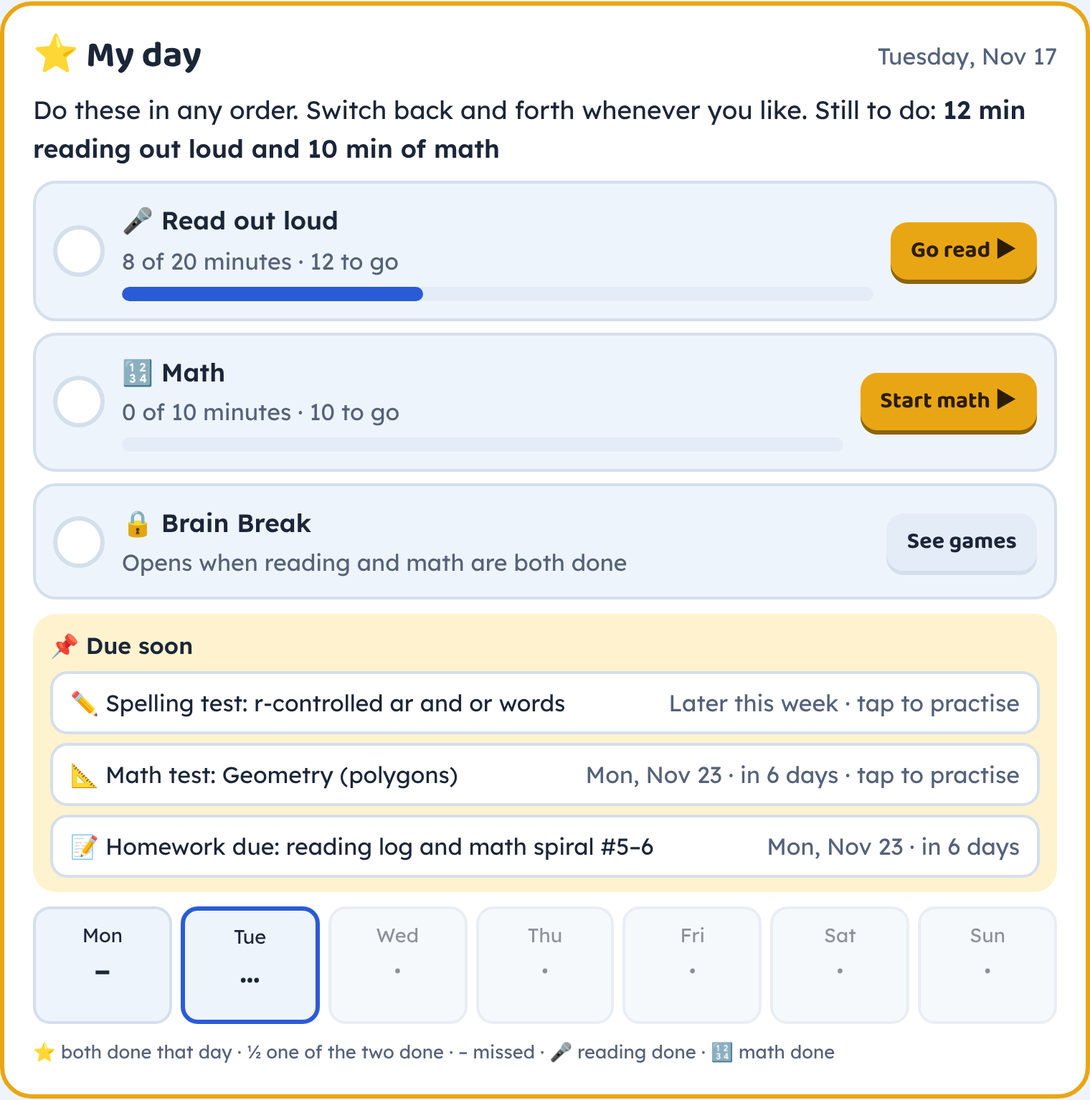
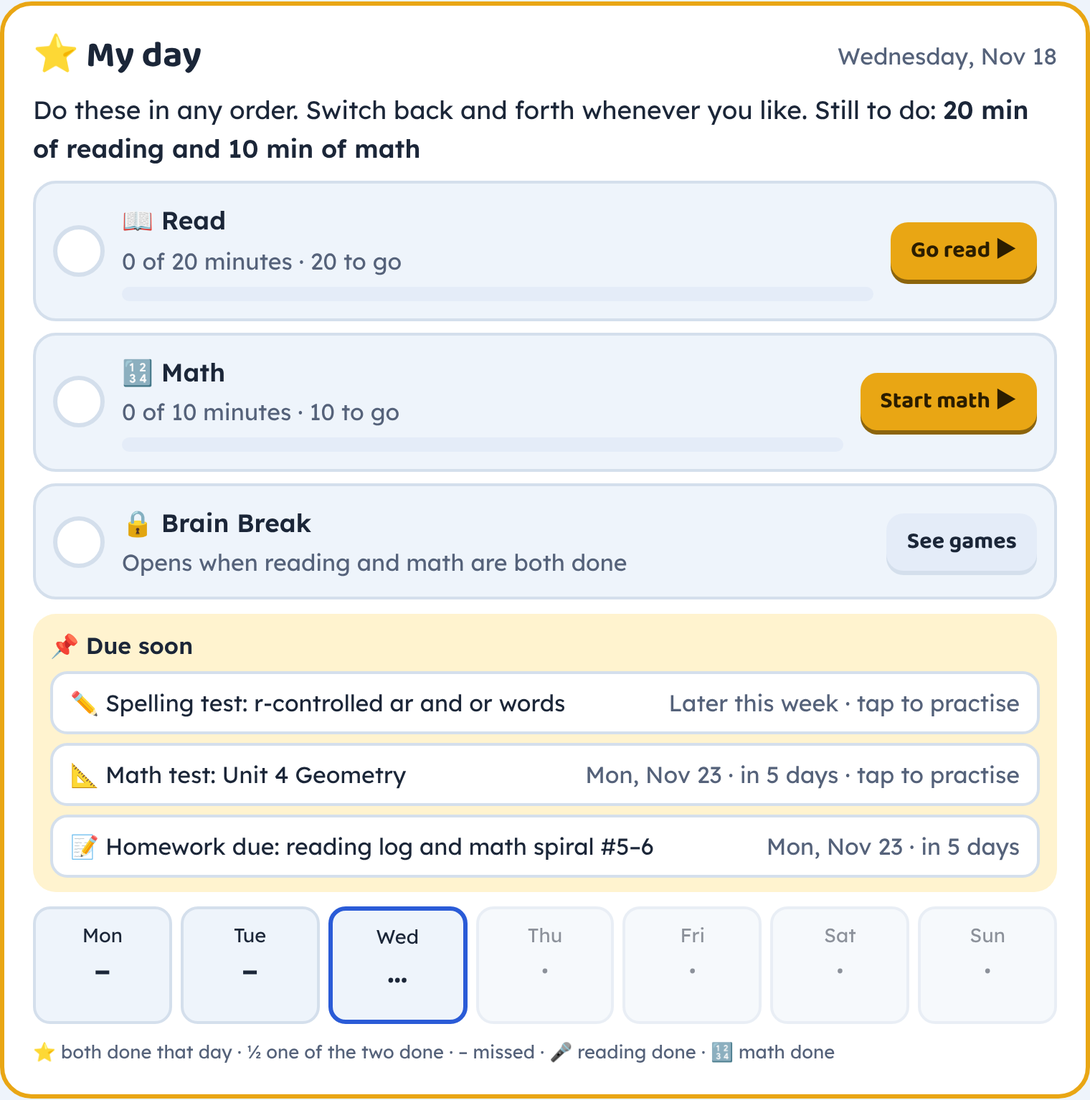
Reading time: every minute of reading work counts toward the daily 20 (pages, questions, sequencing, summary, Fluency Gym, Info Lab, spelling, word work, own book), with an on-screen minutes chip; fix the geometry test button opening Info Lab
Claude-Session: https://claude.ai/code/session_01XFu2tzZbArpVaJjUKnUaou

diff --git a/index.html b/index.html
@@ -1087,6 +1087,7 @@ function topbar(back){
     <div class="grow"><b style="font-family:var(--display);font-size:1.3rem">${esc(p.name)}</b>
       <div class="mut" style="font-size:.9rem">Level ${L.lv+1} · ${L.title}${p.streak.n>1?` · 🔥 ${p.streak.n} days`:''}</div>
       <div class="xp"><i style="width:${Math.round(L.xp/L.need*100)}%"></i></div></div>
+    ${READ_VIEWS.has(view.name) ? `<span class="chip" id="rcMins" style="font-size:1rem" title="Reading minutes today">${rcLabel()}</span>` : ''}
     <span class="chip" style="font-size:1rem" title="Game tickets">🎟 ${tix(p)}</span><span class="coins"><span class="coin"></span>${p.coins}</span></div>`;
 }
 
@@ -1206,7 +1207,7 @@ function vHub(){
   ${isParent(p) ? parentCard() : myDayCard(p, 'read')}
   <div class="card quest">
     <div class="row spread"><div style="min-width:0"><h2>🏅 Bonus quest</h2><p class="mut">${qdone === qi.length ? '🎉 All done today! Bonus ticket and 20 coins earned.' : `Extra, not required: finish all ${qi.length} for a bonus ticket and 20 coins. ${qdone} of ${qi.length} done.`}</p></div></div>
-    ${isParent(p) ? `<div class="aloudline ${breakOpen(p) ? 'open' : ''}"><span>🎤 Out loud with the microphone: <b>${Math.floor(aloudToday(p))} of ${BREAK_ALOUD} min</b></span>${breakOpen(p) ? '<span>🎉 Brain Break open!</span>' : `<span class="mut">${!MATH_ON || mathToday(p) >= MATH_GOAL ? 'opens Brain Break' : 'plus ' + MATH_GOAL + ' min of math opens Brain Break'}</span>`}<div class="abar"><i style="width:${Math.min(100, aloudToday(p)/BREAK_ALOUD*100)}%"></i></div></div>` : ''}
+    ${isParent(p) ? `<div class="aloudline ${breakOpen(p) ? 'open' : ''}"><span>📖 Reading today: <b>${Math.floor(readToday(p))} of ${BREAK_ALOUD} min</b></span>${breakOpen(p) ? '<span>🎉 Brain Break open!</span>' : `<span class="mut">${!MATH_ON || mathToday(p) >= MATH_GOAL ? 'opens Brain Break' : 'plus ' + MATH_GOAL + ' min of math opens Brain Break'}</span>`}<div class="abar"><i style="width:${Math.min(100, readToday(p)/BREAK_ALOUD*100)}%"></i></div></div>` : ''}
     <div class="qlist">${qi.map(i => `<button class="qitem ${i.done?'done':''}" ${i.done?'disabled':''} data-a="${A(i.run)}"><span class="qcheck">${i.done?'✓':''}</span><span>${i.icon} ${esc(i.label)}</span></button>`).join('')}</div>
   </div>
   ${schoolCard(p)}
@@ -1238,10 +1239,10 @@ function readNow(p){ const ch = nextChapter(p); p.subject = 'read'; save(); if (
 function mathGo(p){ const items = mathQuest(p), it = items.find(i => !i.done) || items[0]; if (it) it.run(); }
 function mathNow(p){ p.subject = 'math'; save(); go({name:'hub'}); }
 function weekDays(){ const t = new Date(today() + 'T12:00'), mon = new Date(t); mon.setDate(t.getDate() - ((t.getDay() + 6) % 7)); return [...Array(7)].map((_, i) => { const d = new Date(mon); d.setDate(mon.getDate() + i); return d.toISOString().slice(0, 10); }); }
-function dayDone(p, d){ const r = (((p.aloud || {})[d]) || 0) >= BREAK_ALOUD, m = !MATH_ON || mathToday(p, d) >= MATH_GOAL; return {r, m, all: r && m}; }
+function dayDone(p, d){ const r = readToday(p, d) >= BREAK_ALOUD, m = !MATH_ON || mathToday(p, d) >= MATH_GOAL; return {r, m, all: r && m}; }
 function myDayCard(p, here){
   if (isParent(p)) return '';
-  const ra = Math.floor(aloudToday(p)), mm = Math.floor(mathToday(p)), rDone = ra >= BREAK_ALOUD, mDone = !MATH_ON || mm >= MATH_GOAL, open = breakOpen(p);
+  const ra = Math.floor(readToday(p)), mm = Math.floor(mathToday(p)), rDone = ra >= BREAK_ALOUD, mDone = !MATH_ON || mm >= MATH_GOAL, open = breakOpen(p);
   const bar = (v, g) => `<span class="mdbar"><i style="width:${Math.min(100, v / g * 100)}%"></i></span>`;
   const step = (n, done, icon, title, sub, v, g, btn) => `<div class="mdstep ${done ? 'done' : ''}"><span class="mdnum">${done ? '✓' : ''}</span><span class="mdtx"><b>${icon} ${title}</b><span class="mut">${sub}</span>${g ? bar(v, g) : ''}</span>${btn}</div>`;
   const btn = (txt, fn, hot) => `<button class="btn small ${hot ? 'sun' : 'ghost'}" data-a="${A(fn)}">${txt}</button>`;
@@ -1250,16 +1251,16 @@ function myDayCard(p, here){
   // reading and math can be done in any order, a bit of each, back and forth: both buttons stay bright until done
   return `<div class="card myday">
     <div class="row spread"><h2>⭐ My day</h2><span class="mut">${new Date(t + 'T12:00').toLocaleDateString(undefined, {weekday:'long', month:'short', day:'numeric'})}</span></div>
-    <p class="mdlead">${open ? '🎉 You did everything due today! Brain Break is open.' : `Do these in any order. Switch back and forth whenever you like. Still to do: <b>${[rDone ? '' : `${BREAK_ALOUD - ra} min reading out loud`, mDone ? '' : `${MATH_GOAL - mm} min of math`].filter(Boolean).join(' and ')}</b>`}</p>
+    <p class="mdlead">${open ? '🎉 You did everything due today! Brain Break is open.' : `Do these in any order. Switch back and forth whenever you like. Still to do: <b>${[rDone ? '' : `${BREAK_ALOUD - ra} min of reading`, mDone ? '' : `${MATH_GOAL - mm} min of math`].filter(Boolean).join(' and ')}</b>`}</p>
     <div class="mdsteps">
-      ${step(1, rDone, '🎤', 'Read out loud', rDone ? `Done! ${ra} of ${BREAK_ALOUD} minutes` : `${ra} of ${BREAK_ALOUD} minutes · ${BREAK_ALOUD - ra} to go`, ra, BREAK_ALOUD, here === 'read' && !rDone ? btn('Read in the app ▶', () => readNow(p), true) + btn('📖 My own book', () => go({name:'book'}), true) : here !== 'read' ? btn(rDone ? 'Reading' : 'Go read ▶', () => { p.subject = 'read'; save(); go({name:'hub'}); }, !rDone) : '')}
+      ${step(1, rDone, '📖', 'Read', rDone ? `Done! ${ra} of ${BREAK_ALOUD} minutes` : `${ra} of ${BREAK_ALOUD} minutes · ${BREAK_ALOUD - ra} to go`, ra, BREAK_ALOUD, here === 'read' && !rDone ? btn('Read in the app ▶', () => readNow(p), true) + btn('📖 My own book', () => go({name:'book'}), true) : here !== 'read' ? btn(rDone ? 'Reading' : 'Go read ▶', () => { p.subject = 'read'; save(); go({name:'hub'}); }, !rDone) : '')}
       ${MATH_ON ? step(2, mDone, '🔢', 'Math', mDone ? `Done! ${mm} of ${MATH_GOAL} minutes` : `${mm} of ${MATH_GOAL} minutes · ${MATH_GOAL - mm} to go`, mm, MATH_GOAL, here !== 'math' ? btn(mDone ? 'Math' : 'Go do math ▶', () => mathNow(p), !mDone) : btn(mDone ? 'More math' : 'Start math ▶', () => mathGo(p), !mDone)) : ''}
       ${step(MATH_ON ? 3 : 2, open, open ? '🎉' : '🔒', 'Brain Break', open ? 'Open! Play any game you like.' : 'Opens when reading and math are both done', 0, 0, btn(open ? 'Play ▶' : 'See games', () => go({name:'break'}), open))}
     </div>
     ${due.length ? `<div class="mddue"><b>📌 Due soon</b>${due.slice(0, 3).map(e => `<button class="mdduei" ${e.prep ? `data-a="${A(() => schoolPrep(p, e))}"` : 'disabled'}><span>${e.ic} ${esc(e.t)}</span><span class="mut">${whenTxt(e.d, e)}${e.prep ? ' · tap to practise' : ''}</span></button>`).join('')}</div>` : ''}
     <div class="mdweek" aria-label="This week">${days.map(d => { const x = dayDone(p, d), fut = d > t, isT = d === t;
-      return `<div class="mdday ${isT ? 'today' : ''} ${fut ? 'fut' : x.all ? 'ok' : ''}"><span>${new Date(d + 'T12:00').toLocaleDateString(undefined, {weekday:'short'})}</span><b>${fut ? '·' : x.all ? '⭐' : isT ? '…' : (x.r || x.m) ? '½' : '–'}</b><small>${fut ? '' : `${x.r ? '🎤' : ''}${x.m && MATH_ON ? '🔢' : ''}`}</small></div>`; }).join('')}</div>
-    <p class="mut mdkey">⭐ both done that day · ½ one of the two done · – missed · 🎤 reading done · 🔢 math done</p>
+      return `<div class="mdday ${isT ? 'today' : ''} ${fut ? 'fut' : x.all ? 'ok' : ''}"><span>${new Date(d + 'T12:00').toLocaleDateString(undefined, {weekday:'short'})}</span><b>${fut ? '·' : x.all ? '⭐' : isT ? '…' : (x.r || x.m) ? '½' : '–'}</b><small>${fut ? '' : `${x.r ? '📖' : ''}${x.m && MATH_ON ? '🔢' : ''}`}</small></div>`; }).join('')}</div>
+    <p class="mut mdkey">⭐ both done that day · ½ one of the two done · – missed · 📖 reading done · 🔢 math done</p>
   </div>`;
 }
 function mapSvg(p){
@@ -1414,7 +1415,7 @@ function modePicker(p){
   if (!p.mode) p.mode = SR ? 'mic' : 'pace';
   return `<div class="modes">${Object.entries(MODES).filter(([k]) => k !== 'mic' || SR).map(([k,m]) =>
     `<button class="${p.mode===k?'on':''}" data-a="${A(()=>{p.mode=k; save(); render();})}" title="${m.sub}">${m.label}</button>`).join('')}</div>
-    <p class="mut" style="font-size:.9rem">${p.mode === 'mic' ? '🎤 Counts toward Brain Break. ' : (SR && !micBlocked ? 'Only 🎤 Read out loud counts toward Brain Break. ' : '')}${MODES[p.mode].sub}${micBlocked && p.mode==='mic' ? ' (the microphone is not available on this page, so the highlighter will be used)' : ''}</p>`;
+    <p class="mut" style="font-size:.9rem">📖 Reading the story and answering its questions all count toward your ${BREAK_ALOUD} minutes. ${MODES[p.mode].sub}${micBlocked && p.mode==='mic' ? ' (the microphone is not available on this page, so the highlighter will be used)' : ''}</p>`;
 }
 
 // ---------- Reading ----------
@@ -1563,7 +1564,42 @@ const SR = window.SpeechRecognition || window.webkitSpeechRecognition || null;
 let micBlocked = false;
 const mic = {on:false, rec:null, ptr:0, seg:0, t0:0, done:false};
 const pace = {timer:null, i:0, run:false};
-function stopAll(){ if (typeof bookStop === 'function') bookStop(true); if (typeof closeScratch === 'function') closeScratch(); scanStop(); stopMic(); stopPace(); closePop(); gameStop(); stopRetell(); gymStopTimer(); breakStop(); }
+
+// ---------- The reading clock ----------
+// Every reading activity counts toward the daily reading minutes for the whole time the kid is working on it: reading the
+// page, answering its questions, putting events in order, the summary, the Fluency Gym, Info Lab articles and their questions,
+// focus words, spelling, Word Detective and the check-ins. Before, only the reading part of a story counted, so 20 minutes of
+// reading took 40-50 minutes in the app. The clock pauses when the app is hidden or nobody has touched the screen for a while
+// (6 minutes on a page of text, which can take a while to read with no tap; 2 minutes everywhere else).
+// "Read my own book" keeps its own microphone clock and is not counted here. Arcade games and math never count.
+const READ_VIEWS = new Set(['intro', 'read', 'seq', 'finish', 'sum', 'series', 'focus', 'gym', 'info', 'infolab', 'checkin', 'checkpoint', 'spell', 'wordgame', 'g_parts']);
+const RC = {last: Date.now(), pend: 0, title: ''};
+['pointerdown', 'keydown', 'touchstart', 'scroll', 'input', 'wheel'].forEach(e => addEventListener(e, () => { RC.last = Date.now(); }, {passive:true, capture:true}));
+function rcTitle(){
+  const n = view && view.name;
+  if (n === 'gym') return 'Fluency Gym: ' + (view.psg && view.psg.title || 'practice passage');
+  if (n === 'info'){ const a = typeof infoSet === 'function' && me() ? infoSet(me()).find(x => x.id === view.id) : null; return a ? a.title : 'Info Lab'; }
+  if (n === 'infolab') return 'Info Lab';
+  if (n === 'checkin' || n === 'checkpoint') return 'Monthly checkpoint';
+  if (n === 'spell') return 'Spelling practice';
+  if (n === 'wordgame') return 'Word Detective';
+  if (n === 'focus' || n === 'g_parts') return 'Word practice';
+  return (typeof R !== 'undefined' && R && R.s && R.s.title) || 'Reading practice';
+}
+function rcReading(){ return (view.name === 'read' && !['q', 'look'].includes(view.phase)) || (view.name === 'info' && view.phase === 'read') || view.name === 'gym'; }
+function rcFlush(){ if (!RC.pend) return; const s2 = RC.pend; RC.pend = 0; addMinutes(s2 / 60, RC.title); }
+setInterval(() => {
+  if (typeof view === 'undefined' || !view || !READ_VIEWS.has(view.name) || document.hidden || !me()) { rcFlush(); return; }
+  if (Date.now() - RC.last > (rcReading() ? 6 : 2) * 60000) { rcFlush(); return; }
+  const t = rcTitle(); if (RC.pend && t !== RC.title) rcFlush();
+  RC.title = t; RC.pend += 1;
+  if (RC.pend >= 20) rcFlush();
+  const el = document.getElementById('rcMins'); if (el) el.textContent = rcLabel();
+}, 1000);
+document.addEventListener('visibilitychange', () => { if (document.hidden) rcFlush(); });
+addEventListener('pagehide', rcFlush);
+function rcLabel(){ const p = me(); if (!p) return ''; const m = Math.floor(readToday(p)), g = BREAK_ALOUD; return m >= g ? `📖 ${m} min today ✓` : `📖 ${m} of ${g} min`; }
+function stopAll(){ rcFlush(); if (typeof bookStop === 'function') bookStop(true); if (typeof closeScratch === 'function') closeScratch(); scanStop(); stopMic(); stopPace(); closePop(); gameStop(); stopRetell(); gymStopTimer(); breakStop(); }
 function setupMode(){
   const p = me();
   let mode = p.mode || 'pace'; if (mode === 'mic' && (!SR || micBlocked)) mode = 'pace';
@@ -1594,7 +1630,7 @@ function readDone(){
   stopAll();
   if (mode === 'solo' && secs > 8){ logWpm(view.words.length, secs, 'solo'); }
   if (mode !== 'solo' && !view.readPaid){ view.readPaid = true; R.coins += 3; addCoins(3, 'read aloud'); }
-  addMinutes(secs/60, R && R.s ? R.s.title : ''); if (R) R.mins = (R.mins||0) + Math.min(secs/60, 15);
+  if (R) R.mins = (R.mins||0) + Math.min(secs/60, 15); // today's minutes come from the reading clock
   view.phase = 'q'; view.q = null; render();
 }
 function logWpm(n, secs, how){
@@ -1980,7 +2016,7 @@ function vGrown(){
         <div class="pick words" style="margin-top:8px">${FOCUS.map(([k,l]) => `<button class="${f[k]?'on':''}" aria-pressed="${!!f[k]}" data-a="${A(()=>{ p.focus = Object.assign({}, p.focus, {[k]: !f[k]}); save(); render(); })}">${f[k]?'✓ ':''}${l}</button>`).join('')}</div></div>
 
       <div><h3>Brain Break today</h3>
-        <p class="mut" style="font-size:.9rem">${esc(p.name)} has read <b>${Math.floor(aloudToday(p))} of ${BREAK_ALOUD} minutes</b> out loud${MATH_ON ? ` and done <b>${Math.floor(mathToday(p))} of ${MATH_GOAL} minutes</b> of math` : ''} today. ${breakOpen(p) ? (p.breakDay === today() && aloudToday(p) < BREAK_ALOUD ? 'You opened Brain Break for today.' : 'Brain Break is open.') : 'Brain Break is locked.'}</p>
+        <p class="mut" style="font-size:.9rem">${esc(p.name)} has read <b>${Math.floor(readToday(p))} of ${BREAK_ALOUD} minutes</b>${MATH_ON ? ` and done <b>${Math.floor(mathToday(p))} of ${MATH_GOAL} minutes</b> of math` : ''} today. ${breakOpen(p) ? (p.breakDay === today() && readToday(p) < BREAK_ALOUD ? 'You opened Brain Break for today.' : 'Brain Break is open.') : 'Brain Break is locked.'}</p>
         <div style="margin-top:8px">${p.breakDay === today()
           ? `<button class="btn ghost small" data-a="${A(()=>{ p.breakDay = ''; save(); render(); })}">Undo: lock it again</button>`
           : !breakOpen(p) ? `<button class="btn small sun" data-a="${A(()=>{ p.breakDay = today(); save(); render(); })}">🎉 Open Brain Break for today</button>` : ''}</div></div>
@@ -4166,7 +4202,7 @@ const BOOKS5 = [
 ];
 SERIES.push(...BOOKS1, ...BOOKS2, ...BOOKS3, ...BOOKS4, ...BOOKS5);
 
-// ---------- Out-loud minutes: only time the microphone heard the reader (opens Brain Break) ----------
+// ---------- Out-loud minutes: only time the microphone heard the reader (a stat; Brain Break counts all reading time, readToday) ----------
 // Counted from the first word the microphone heard to the last one, so pauses at the start and walking away do not count.
 const BREAK_ALOUD = 20;
 function countAloud(){
@@ -4179,17 +4215,19 @@ function addAloud(secs){
   const p = me(); if (!p || !(secs > 0)) return;
   p.aloud = p.aloud || {}; const t = today();
   for (const d of Object.keys(p.aloud)) if (d < addDays(-60)) delete p.aloud[d];
-  const was = aloudToday(p);
   p.aloud[t] = (p.aloud[t]||0) + Math.min(secs, 900)/60; save();
-  if (was < BREAK_ALOUD && aloudToday(p) >= BREAK_ALOUD) cheer('soccer', `GOAL, ${fname(p)}!`, breakOpen(p) ? '20 minutes of reading out loud. Brain Break is open!' : '20 minutes of reading out loud done!', 100);
 }
 function aloudToday(p){ return ((p.aloud||{})[today()]) || 0; }
+// The daily 20 minutes (My day, Brain Break, the week strip): every minute of reading work the reading clock counted, plus
+// "Read my own book". Until Nov 2026 only the seconds the microphone heard words counted, so 20 minutes took 40-50.
+function readToday(p, d){ return (((p.daily||{})[d || today()]) || 0) + (!d && typeof RC !== 'undefined' && p === me() ? RC.pend / 60 : 0); }
 
 // ---------- Daily reading minutes (matches the class reading logs) ----------
 function goalOf(p){ return p.goal || (p.grade >= 5 ? 20 : 15); }
 function minsToday(p){ return Math.floor(((p.daily||{})[today()]||0)); }
 function addMinutes(m, title){
   const p = me(); if (!p || !(m > 0)) return;
+  const wasR = ((p.daily||{})[today()]) || 0;
   m = Math.min(m, 15); // one sitting never counts more than 15 minutes (a page left open is not reading)
   p.minutes = (p.minutes||0) + m; p.daily = p.daily || {};
   const t = today(); p.daily[t] = (p.daily[t]||0) + m;
@@ -4197,7 +4235,8 @@ function addMinutes(m, title){
   p.readT = p.readT || {}; const day = p.readT[t] || (p.readT[t] = {}), k = title || 'Reading practice'; day[k] = (day[k] || 0) + m;
   Object.keys(p.readT).forEach(d => { if (d < addDays(-60)) delete p.readT[d]; });
   save();
-  if (p.goalPaid !== t && minsToday(p) >= goalOf(p)){ p.goalPaid = t; save(); giveTickets(1); addCoins(10, 'daily goal!'); cheer('soccer', `GOAL, ${fname(p)}!`, `You read ${goalOf(p)} minutes today. Daily goal done!`, 50); }
+  if (wasR < BREAK_ALOUD && p.daily[t] >= BREAK_ALOUD) cheer('soccer', `GOAL, ${fname(p)}!`, breakOpen(p) ? `${BREAK_ALOUD} minutes of reading today. Brain Break is open!` : `${BREAK_ALOUD} minutes of reading done!`, 100);
+  if (p.goalPaid !== t && minsToday(p) >= goalOf(p)){ p.goalPaid = t; save(); giveTickets(1); addCoins(10, 'daily goal!'); if (goalOf(p) !== BREAK_ALOUD) cheer('soccer', `GOAL, ${fname(p)}!`, `You read ${goalOf(p)} minutes today. Daily goal done!`, 50); }
 }
 function ringSvg(p){
   const done = Math.min(1, minsToday(p)/goalOf(p)), r = 26, c = 2*Math.PI*r;
@@ -4357,7 +4396,7 @@ function gymDone(secsIn){
   }
   v.note = '';
   v.errs.forEach(i => bankAdd(v.words[i].raw));
-  v.reads.push(w); addMinutes(secs/60, 'Fluency Gym: ' + (v.psg && v.psg.title || 'practice passage'));
+  v.reads.push(w);
   addCoins(5, 'read ' + v.reads.length);
   if (v.reads.length === 3){
     p.gym = p.gym || []; p.gym.push({d:today(), w:v.reads.slice(), m:v.mode, s:v.psg.s}); if (p.gym.length > 60) p.gym.shift();
@@ -4845,7 +4884,7 @@ window.BreakGames = window.BreakGames || {};
 let breakCleanup = null;
 function breakStop(){ if (breakCleanup){ try{ breakCleanup(); }catch(e){} breakCleanup = null; } }
 const BREAK_OPEN_DAYS = ['2026-11-14', '2026-11-15']; // days a grown-up opened the Brain Break for every child, on every iPad
-function breakOpen(p){ return isParent(p) || (aloudToday(p) >= BREAK_ALOUD && (!MATH_ON || mathToday(p) >= MATH_GOAL)) || p.breakDay === today() || BREAK_OPEN_DAYS.includes(today()); } // breakDay: a grown-up opened it for today
+function breakOpen(p){ return isParent(p) || (readToday(p) >= BREAK_ALOUD && (!MATH_ON || mathToday(p) >= MATH_GOAL)) || p.breakDay === today() || BREAK_OPEN_DAYS.includes(today()); } // breakDay: a grown-up opened it for today
 function breakApi(p, g){
   p.breakScores = p.breakScores || {}; p.breakStore = p.breakStore || {};
   const css = getComputedStyle(document.documentElement), c = n => css.getPropertyValue(n).trim();
@@ -4881,7 +4920,7 @@ function breakRing(v, goal, col, lab){ const pct = Math.min(100, v / goal * 100)
     <circle cx="60" cy="60" r="50" fill="none" stroke="${col}" stroke-width="12" stroke-linecap="round" stroke-dasharray="${(pct/100*314).toFixed(1)} 314" transform="rotate(-90 60 60)"/>
     <text x="60" y="58" text-anchor="middle" font-size="30" font-weight="800" fill="#fff" font-family="Baloo 2, system-ui">${Math.floor(v)}</text><text x="60" y="80" text-anchor="middle" font-size="13" fill="#e0e7ff">${lab}</text></svg>`; }
 function vBreak(){
-  const p = me(), open = breakOpen(p), mins = Math.floor(aloudToday(p)), need = Math.max(1, Math.ceil(BREAK_ALOUD - aloudToday(p))), pct = Math.min(100, aloudToday(p)/BREAK_ALOUD*100);
+  const p = me(), open = breakOpen(p), mins = Math.floor(readToday(p)), need = Math.max(1, Math.ceil(BREAK_ALOUD - readToday(p))), pct = Math.min(100, readToday(p)/BREAK_ALOUD*100);
   const ring = `<svg viewBox="0 0 120 120" class="bbring"><circle cx="60" cy="60" r="50" fill="none" stroke="rgba(255,255,255,.18)" stroke-width="12"/>
     <circle cx="60" cy="60" r="50" fill="none" stroke="#fde047" stroke-width="12" stroke-linecap="round" stroke-dasharray="${(pct/100*314).toFixed(1)} 314" transform="rotate(-90 60 60)"/>
     <text x="60" y="58" text-anchor="middle" font-size="30" font-weight="800" fill="#fff" font-family="Baloo 2, system-ui">${mins}</text><text x="60" y="80" text-anchor="middle" font-size="13" fill="#e0e7ff">reading</text></svg>`;
@@ -4889,11 +4928,11 @@ function vBreak(){
   <div class="bbhero ${open ? 'open' : ''}">
     <div class="bbsparks" aria-hidden="true">${'✦✧✦✧✦✧'.split('').map((c,i) => `<i style="left:${8+i*16}%;animation-delay:${i*.7}s">${c}</i>`).join('')}</div>
     <div class="bbtext"><h1>🧠 Brain Break</h1>
-      <p>${open ? `${isParent(p) ? 'Grown-up account: <b>every game is always open</b> so you can try them out.' : `You read out loud for ${BREAK_ALOUD} minutes today. <b>Every game is open, play as much as you like!</b>`}` : `Unlock every game today with <b>${BREAK_ALOUD} minutes of reading out loud</b>${MATH_ON ? ` and <b>${MATH_GOAL} minutes of math</b>` : ''}. Still to go: <b>${breakNeed(p)}</b>.`}</p>
-      ${open ? '<span class="bbopen">🔓 Open all day today</span>' : `<div class="row">${aloudToday(p) < BREAK_ALOUD ? `<button class="btn sun" data-a="${A(()=>{ p.subject = 'read'; save(); go({name:'library', tab:'rec'}); })}">🎤 Read out loud</button>` : ''}${MATH_ON && mathToday(p) < MATH_GOAL ? `<button class="btn ${aloudToday(p) < BREAK_ALOUD ? 'ghost bbghost' : 'sun'}" data-a="${A(()=>{ p.subject = 'math'; save(); go({name:'hub'}); })}">🔢 Do math</button>` : ''}</div>`}</div>
+      <p>${open ? `${isParent(p) ? 'Grown-up account: <b>every game is always open</b> so you can try them out.' : `You read for ${BREAK_ALOUD} minutes today. <b>Every game is open, play as much as you like!</b>`}` : `Unlock every game today with <b>${BREAK_ALOUD} minutes of reading</b>${MATH_ON ? ` and <b>${MATH_GOAL} minutes of math</b>` : ''}. Still to go: <b>${breakNeed(p)}</b>.`}</p>
+      ${open ? '<span class="bbopen">🔓 Open all day today</span>' : `<div class="row">${readToday(p) < BREAK_ALOUD ? `<button class="btn sun" data-a="${A(()=>{ p.subject = 'read'; save(); go({name:'library', tab:'rec'}); })}">📖 Go read</button>` : ''}${MATH_ON && mathToday(p) < MATH_GOAL ? `<button class="btn ${readToday(p) < BREAK_ALOUD ? 'ghost bbghost' : 'sun'}" data-a="${A(()=>{ p.subject = 'math'; save(); go({name:'hub'}); })}">🔢 Do math</button>` : ''}</div>`}</div>
     ${open ? '<div class="bbbig" aria-hidden="true">🎮</div>' : `<div class="bbrings">${ring}${MATH_ON ? breakRing(mathToday(p), MATH_GOAL, '#67e8f9', 'math') : ''}</div>`}
   </div>
-  ${open ? '' : `<p class="mut" style="margin:-4px 4px 0">Reading counts when the microphone hears you read out loud (${Math.floor(aloudToday(p))} of ${BREAK_ALOUD} min). ${MATH_ON ? `Math counts while you are solving problems (${Math.floor(mathToday(p))} of ${MATH_GOAL} min).` : ''}</p>`}
+  ${open ? '' : `<p class="mut" style="margin:-4px 4px 0">Reading counts the whole time you work on a story, article or your own book: reading the pages and answering the questions (${Math.floor(readToday(p))} of ${BREAK_ALOUD} min). ${MATH_ON ? `Math counts while you are solving problems (${Math.floor(mathToday(p))} of ${MATH_GOAL} min).` : ''}</p>`}
   <div class="bbgrid ${open ? '' : 'locked'}">${BREAK_LIST.map(g => { const best = (p.breakScores||{})[g.id], c = BREAK_LOOK[g.id] || ['#334155','#64748b'];
     return `<button class="bbtile" style="--c1:${c[0]};--c2:${c[1]}" ${open ? '' : 'disabled'} data-a="${A(()=>go({name:'breakgame', id:g.id}))}">
       <span class="bbart" aria-hidden="true"><span>${g.icon}</span></span>
@@ -7410,7 +7449,7 @@ function vInfo(){
     app.innerHTML = `${topbar(()=>go({name:'infolab'}))}
     <div class="card"><p class="mut">Words to know</p>${words}</div>
     <div class="card iart">${art}</div>
-    <div class="row"><button class="btn sun" data-a="${A(()=>{ v.phase = 'q'; v.mins = Math.min(20, (Date.now() - v.t0) / 60000); addMinutes(v.mins, a.title); render(); window.scrollTo({top:0}); })}">I'm done reading → Questions</button></div>`;
+    <div class="row"><button class="btn sun" data-a="${A(()=>{ v.phase = 'q'; v.mins = Math.min(20, (Date.now() - v.t0) / 60000); render(); window.scrollTo({top:0}); })}">I'm done reading → Questions</button></div>`;
     return;
   }
   if (v.phase === 'q'){
@@ -7470,7 +7509,6 @@ function cpFinish(f){
   const p = me(), v = view, dom = {};
   f.items.forEach((it, i) => { const d = dom[it.dom] || (dom[it.dom] = [0, 0]); d[1]++; if (v.st[i].ok) d[0]++; });
   p.cps = p.cps || []; p.cps.push({d:today(), id:f.id, dom, mins: Math.round((Date.now() - (v.t0 || Date.now())) / 60000)});
-  addMinutes(Math.min(30, (Date.now() - (v.t0 || Date.now())) / 60000), 'Monthly checkpoint');
   logEvent('checkin', 'Monthly checkpoint', {w:0}); addCoins(30, 'checkpoint'); cheer('trophy', `Checkpoint champion, ${fname(p)}!`, 'Monthly checkpoint finished. Great focus!', 50); questMark('check'); save();
 }
 function cpTableHtml(cps){
@@ -7516,7 +7554,7 @@ function mathPack(p){
   return {u: mathUnitNow(p).name, s, f: Object.keys(m.facts).filter(k => m.facts[k].n > (m.facts[k].ok || 0)).slice(0, 16)};
 }
 function mathTopics(list){ const T = {}; (list || []).forEach(e => { const x = T[e.title] || (T[e.title] = [0, 0, 0]); x[0] += e.mins || 0; x[1] += e.right || 0; x[2] += e.total || 0; }); return Object.entries(T).map(([t, x]) => [t, Math.round(x[0]), x[1], x[2]]); }
-// Brain Break needs 20 minutes of out-loud reading AND 10 minutes of math, each counted only while actually working.
+// Brain Break needs 20 minutes of reading (readToday) AND 10 minutes of math, each counted only while actually working.
 // Problems come from generators in math/g3.js and math/g5.js (window.MathSkills), loaded when a child opens Math.
 const MATH_GOAL = 10;
 const MATH_ON = true;
@@ -7570,8 +7608,8 @@ function mathTick(){ const p = me(); if (!p) return; const now = Date.now(), m =
   if (was < MATH_GOAL && mathToday(p) >= MATH_GOAL) cheer(Math.random() < .5 ? 'slide' : 'team', `What a finish, ${fname(p)}!`, breakOpen(p) ? '10 minutes of math done. Brain Break is open!' : '10 minutes of math done!', 60);
 }
 function breakNeed(p){
-  const r = Math.max(0, Math.ceil(BREAK_ALOUD - aloudToday(p))), m = MATH_ON ? Math.max(0, Math.ceil(MATH_GOAL - mathToday(p))) : 0, out = [];
-  if (r) out.push(`${r} min reading out loud`); if (m) out.push(`${m} min of math`); return out.join(' and ');
+  const r = Math.max(0, Math.ceil(BREAK_ALOUD - readToday(p))), m = MATH_ON ? Math.max(0, Math.ceil(MATH_GOAL - mathToday(p))) : 0, out = [];
+  if (r) out.push(`${r} min of reading`); if (m) out.push(`${m} min of math`); return out.join(' and ');
 }
 
 // ---- pictures for problems ----
@@ -7723,7 +7761,7 @@ const SCHOOL = {
       learn:[['🔢', 'Math', 'Unit 4 Geometry: polygons with 3 to 8 sides, combining and cutting shapes'], ['📚', 'Reading', 'Unit 3: Government for the People (helping others, voting rights)'],
              ['✏', 'Spelling', 'r-controlled vowels: ar (garden) and or (forest)'], ['💧', 'Science', 'The water cycle and keeping water clean']],
       events:[{d:'2026-11-19', ic:'📸', t:'Picture make-up day'},
-              {d:'2026-11-23', ic:'📐', t:'Math test: Unit 4 Geometry', info:'Study guide: polygons vs. nonpolygons, naming shapes by their sides (quadrilateral, pentagon, hexagon, octagon), lines, rays and line segments, congruent shapes, cutting and combining shapes.', math:['g3.polygons', 'g3.quads', 'g3.composepoly', 'g3.geovocab', 'g3.polyfacts', 'g3.geovocab'], prep:'Practise for the geometry test'},
+              {d:'2026-11-23', ic:'📐', t:'Math test: Unit 4 Geometry', about:'Study guide: polygons vs. nonpolygons, naming shapes by their sides (quadrilateral, pentagon, hexagon, octagon), lines, rays and line segments, congruent shapes, cutting and combining shapes.', math:['g3.polygons', 'g3.quads', 'g3.composepoly', 'g3.geovocab', 'g3.polyfacts', 'g3.geovocab'], prep:'Practise for the geometry test'},
               {d:'2026-11-20', when:'Later this week', ic:'✏', t:'Spelling test: r-controlled ar and or words', spell:true, prep:'Practise the spelling words'},
               {d:'2026-11-23', ic:'📝', t:'Homework due: reading log and math spiral #5–6'},
               {d:'2026-11-24', ic:'🧱', t:'Field trip: LEGO Discovery Center'},
@@ -7772,7 +7810,7 @@ function schoolCard(p, mathOnly){
   const tch = S2.teachers ? (S2.teachers[teacherOf(p)] ? `<span class="mut" style="font-size:.85rem">${esc(S2.teachers[p.teacher].name)}'s class · <button class="linkbtn" data-a="${A(() => { delete p.teacher; save(); render(); })}">change</button></span>`
     : `<div class="row" style="gap:6px;margin-top:6px"><span class="mut">Whose class are you in?</span>${Object.keys(S2.teachers).map(k => `<button class="btn small ghost" data-a="${A(() => { p.teacher = k; save(); render(); })}">${esc(S2.teachers[k].name)}</button>`).join('')}</div>`) : `<span class="mut" style="font-size:.85rem">${esc(S2.from)}</span>`;
   return `<div class="card schoolcard"><div class="row spread"><h2>📅 Coming up at school</h2>${tch}</div>
-    ${ev.length ? `<ul class="schev">${ev.map(e => `<li class="${daysTo(e.d) <= 2 ? 'soon' : ''}"><span class="ic">${e.ic}</span><span class="sct"><b>${esc(e.t)}</b><span class="mut">${whenTxt(e.d, e)}</span></span>${e.prep ? `<button class="btn small ${daysTo(e.d) <= 7 ? 'sun' : 'ghost'}" data-a="${A(() => schoolPrep(p, e))}">${esc(e.prep)}</button>` : ''}</li>`).join('')}</ul>` : '<p class="mut">Nothing on the calendar in the next three weeks.</p>'}
+    ${ev.length ? `<ul class="schev">${ev.map(e => `<li class="${daysTo(e.d) <= 2 ? 'soon' : ''}"><span class="ic">${e.ic}</span><span class="sct"><b>${esc(e.t)}</b><span class="mut">${whenTxt(e.d, e)}</span>${e.about ? `<span class="mut" style="font-size:.85rem">${esc(e.about)}</span>` : ''}</span>${e.prep ? `<button class="btn small ${daysTo(e.d) <= 7 ? 'sun' : 'ghost'}" data-a="${A(() => schoolPrep(p, e))}">${esc(e.prep)}</button>` : ''}</li>`).join('')}</ul>` : '<p class="mut">Nothing on the calendar in the next three weeks.</p>'}
     ${mathOnly ? '' : `<details class="schlearn"><summary>What we are learning in class</summary><ul>${S2.learn.map(l => `<li><span>${l[0]}</span> <b>${esc(l[1])}:</b> ${esc(l[2])}</li>`).join('')}</ul></details>`}
   </div>`;
 }
@@ -7854,7 +7892,7 @@ function bookStart(title){
 const mmss = s2 => Math.floor(s2 / 60) + ':' + String(Math.floor(s2 % 60)).padStart(2, '0');
 function bookPaint(){ if (!BK || view.name !== 'book') return; const p = me(), $ = id => document.getElementById(id); if (!$('bkTime')) { if (BK.err) render(); return; }
   if (BK.err){ render(); return; }
-  const today20 = aloudToday(p) + BK.pend / 60, wpm = BK.active >= 60 && BK.words >= 20 ? Math.round(BK.words / (BK.active / 60)) : null;
+  const today20 = readToday(p) + BK.pend / 60, wpm = BK.active >= 60 && BK.words >= 20 ? Math.round(BK.words / (BK.active / 60)) : null;
   $('bkTime').textContent = mmss(BK.active); $('bkWords').textContent = BK.words + (BK.interim ? BK.interim.split(/\s+/).length : 0);
   $('bkWpm').textContent = wpm == null ? '…' : wpm; $('bkGoal').textContent = `${Math.min(BREAK_ALOUD, Math.floor(today20))} of ${BREAK_ALOUD} min today`;
   $('bkBar').style.width = Math.min(100, today20 / BREAK_ALOUD * 100) + '%';
@@ -7881,7 +7919,7 @@ function vBook(){
       <span class="big-emoji">📖</span><h1>Great reading!</h1><p><b>${esc(BK.title)}</b></p>
       <div class="bkstats"><div><span class="mut">Read out loud</span><b>${mins}:${String(secs).padStart(2, '0')}</b></div><div><span class="mut">Words heard</span><b>${BK.words}</b></div><div><span class="mut">Words a minute</span><b>${w == null ? '–' : w}</b></div></div>
       ${w == null ? '<p class="mut">Read at least 2 minutes out loud to get your words a minute.</p>' : `<p>${w >= tgt ? '🚀 That is at or above your goal of ' + tgt + '!' : 'Your goal is ' + tgt + ' words a minute. Keep practising!'}</p>`}
-      <p>Today: <b>${Math.floor(aloudToday(p))} of ${BREAK_ALOUD} min</b> read out loud${aloudToday(p) >= BREAK_ALOUD ? ' ✓' : ''}</p>
+      <p>Today: <b>${Math.floor(readToday(p))} of ${BREAK_ALOUD} min</b> of reading${readToday(p) >= BREAK_ALOUD ? ' ✓' : ''}</p>
       <div class="row"><button class="btn sun" data-a="${A(()=>{ const t = BK.title; go({name:'book', phase:'reading'}); bookStart(t); })}">Keep reading</button><button class="btn ghost" data-a="${A(()=>go({name:'hub'}))}">Done</button></div></div>`;
     return;
   }
@@ -7941,9 +7979,9 @@ function subjectSwitch(p){
 function vSubject(){
   const p = me();
   app.innerHTML = `${topbar(null)}<h1 style="text-align:center">What do you want to work on, ${esc(p.name)}?</h1>
-  <div class="subjpick"><button class="subjtile read" data-a="${A(()=>{ p.subject = 'read'; save(); go({name:'hub'}); })}"><span>📚</span><b>Reading</b><span class="mut">🎤 ${Math.floor(aloudToday(p))} of ${BREAK_ALOUD} min out loud today</span></button>
+  <div class="subjpick"><button class="subjtile read" data-a="${A(()=>{ p.subject = 'read'; save(); go({name:'hub'}); })}"><span>📚</span><b>Reading</b><span class="mut">📖 ${Math.floor(readToday(p))} of ${BREAK_ALOUD} min today</span></button>
     <button class="subjtile math" data-a="${A(()=>{ p.subject = 'math'; save(); go({name:'hub'}); })}"><span>🔢</span><b>Math</b><span class="mut">⏱ ${Math.floor(mathToday(p))} of ${MATH_GOAL} min today</span></button></div>
-  <p class="mut" style="text-align:center">${breakOpen(p) ? '🎉 Everything due today is done. Brain Break is open!' : `Still to do today: ${[aloudToday(p) >= BREAK_ALOUD ? '' : `${Math.ceil(BREAK_ALOUD - aloudToday(p))} min reading out loud`, mathToday(p) >= MATH_GOAL ? '' : `${Math.ceil(MATH_GOAL - mathToday(p))} min of math`].filter(Boolean).join(' and ')}, in any order. Then Brain Break opens.`}</p>`;
+  <p class="mut" style="text-align:center">${breakOpen(p) ? '🎉 Everything due today is done. Brain Break is open!' : `Still to do today: ${[readToday(p) >= BREAK_ALOUD ? '' : `${Math.ceil(BREAK_ALOUD - readToday(p))} min of reading`, mathToday(p) >= MATH_GOAL ? '' : `${Math.ceil(MATH_GOAL - mathToday(p))} min of math`].filter(Boolean).join(' and ')}, in any order. Then Brain Break opens.`}</p>`;
 }
 
 // ---- the problem player ----
@@ -8174,7 +8212,7 @@ function kidSummary(name, local){
   const td = rows.find(r => r.d === t), wk = rows.filter(r => r.d >= w0), pw = rows.filter(r => r.d >= p0 && r.d < w0);
   const sum = (a, k) => a.reduce((x, r) => x + (r[k] || 0), 0), g = kid.g || 3;
   const mright = a => a.reduce((x, r) => x + (r.mt || []).reduce((y, q) => y + (q[2] || 0), 0), 0), mtot = a => a.reduce((x, r) => x + (r.mt || []).reduce((y, q) => y + (q[3] || 0), 0), 0);
-  const sp = a => median(a.filter(r => r.s).map(r => r.s)), bb = r => (r.al || 0) >= BREAK_ALOUD && (r.mm || 0) >= MATH_GOAL;
+  const sp = a => median(a.filter(r => r.s).map(r => r.s)), bb = r => (r.m || 0) >= BREAK_ALOUD && (r.mm || 0) >= MATH_GOAL;
   const last = Math.max(0, ...rows.map(r => r.at || 0));
   return {name, g, a:kid.a, local: !!local, td, wk, last, days: wk.filter(r => (r.m || 0) > 0).length, read: sum(wk, 'm'), aloud: sum(wk, 'al'), math: sum(wk, 'mm'), met: wk.filter(r => (r.m || 0) >= (r.gl || 20)).length,
     bb: wk.filter(bb).length, titles: [...new Set(wk.flatMap(r => (r.rd || []).map(x => bookOf(x[0]).book)))], mR: mright(wk), mT: mtot(wk), sNow: sp(wk), sPrev: sp(pw), readPrev: sum(pw, 'm'), mathPrev: sum(pw, 'mm'), ms: kid.ms};
@@ -8208,11 +8246,11 @@ function vExecSum(){
     body = `<div class="card"><h2>📅 Today</h2><p class="mut">${niceDate(today(), true)}</p>
       <table class="daytab exgrid">${head}
         ${R('📖 Reading', k => `<b>${T(k).m || 0}</b>/${T(k).gl || (k.g >= 5 ? 20 : 15)}${ok(T(k).m || 0, T(k).gl || (k.g >= 5 ? 20 : 15))}`)}
-        ${R('🎤 Out loud', k => `<b>${T(k).al || 0}</b>/${BREAK_ALOUD}${ok(T(k).al || 0, BREAK_ALOUD)}`)}
+        ${R('📖 Reading', k => `<b>${T(k).m || 0}</b>/${BREAK_ALOUD}${ok(T(k).m || 0, BREAK_ALOUD)}`)}
         ${R('🔢 Math', k => `<b>${T(k).mm || 0}</b>/${MATH_GOAL}${ok(T(k).mm || 0, MATH_GOAL)}`)}
         ${R('✅ Math right', k => mt(T(k)) ? `${Math.round(mr(T(k)) / mt(T(k)) * 100)}%` : '–')}
         ${R('⚡ Speed', k => T(k).s ? `${bandOf(k.g, T(k).s).ic} ${T(k).s}` : '–')}
-        ${R('🧠 Brain Break', k => (T(k).al || 0) >= BREAK_ALOUD && (T(k).mm || 0) >= MATH_GOAL ? '✅' : '🔒')}
+        ${R('🧠 Brain Break', k => (T(k).m || 0) >= BREAK_ALOUD && (T(k).mm || 0) >= MATH_GOAL ? '✅' : '🔒')}
         ${local ? '' : R('📷 Scanned', k => `<span class="mut">${ago(k.last)}</span>`)}</table>
       <h3>What they read</h3>${K.map(k => `<p class="exread"><b>${esc(k.name)}:</b> ${k.td && (k.td.rd || []).length ? schoolDay(k.td).map(b => `${esc(b.book)}${b.mins ? ` <span class="mut">${b.mins} min</span>` : ''}`).join(' · ') : '<span class="mut">nothing yet</span>'}</p>`).join('')}
       ${exNotes(K, true)}</div>`;

diff --git a/sw.js b/sw.js
@@ -1,6 +1,6 @@
 // Page Quest service worker: always tries the network first so updates arrive,
 // and falls back to the last saved copy when the iPad is offline.
-const CACHE = 'page-quest-v68';
+const CACHE = 'page-quest-v69';
 const CORE = ['./', 'index.html', 'manifest.webmanifest', 'icons/apple-touch-icon.png', 'icons/icon-192.png', 'icons/icon-512.png'];
 // Break Zone games: cached on install so they also work offline
 const GAMES = ['bowling', 'golf', 'hoops', 'penalty', 'baseball', 'joust', 'hockey', 'fishing', 'stack', 'space', 'rings', 'rollball', 'balloons', 'draw', 'ttt', 'four', 'checkers', 'wordguess'].map(g => 'games/' + g + '.js?v=3').concat(['lib/jsQR.js?v=1', 'math/g3.js?v=6', 'math/g3geo.js?v=6', 'math/g3x.js?v=6', 'math/g3y.js?v=6', 'math/g5.js?v=6', 'math/g5x.js?v=6', 'math/g5y.js?v=6', 'cheer.js?v=3']);
